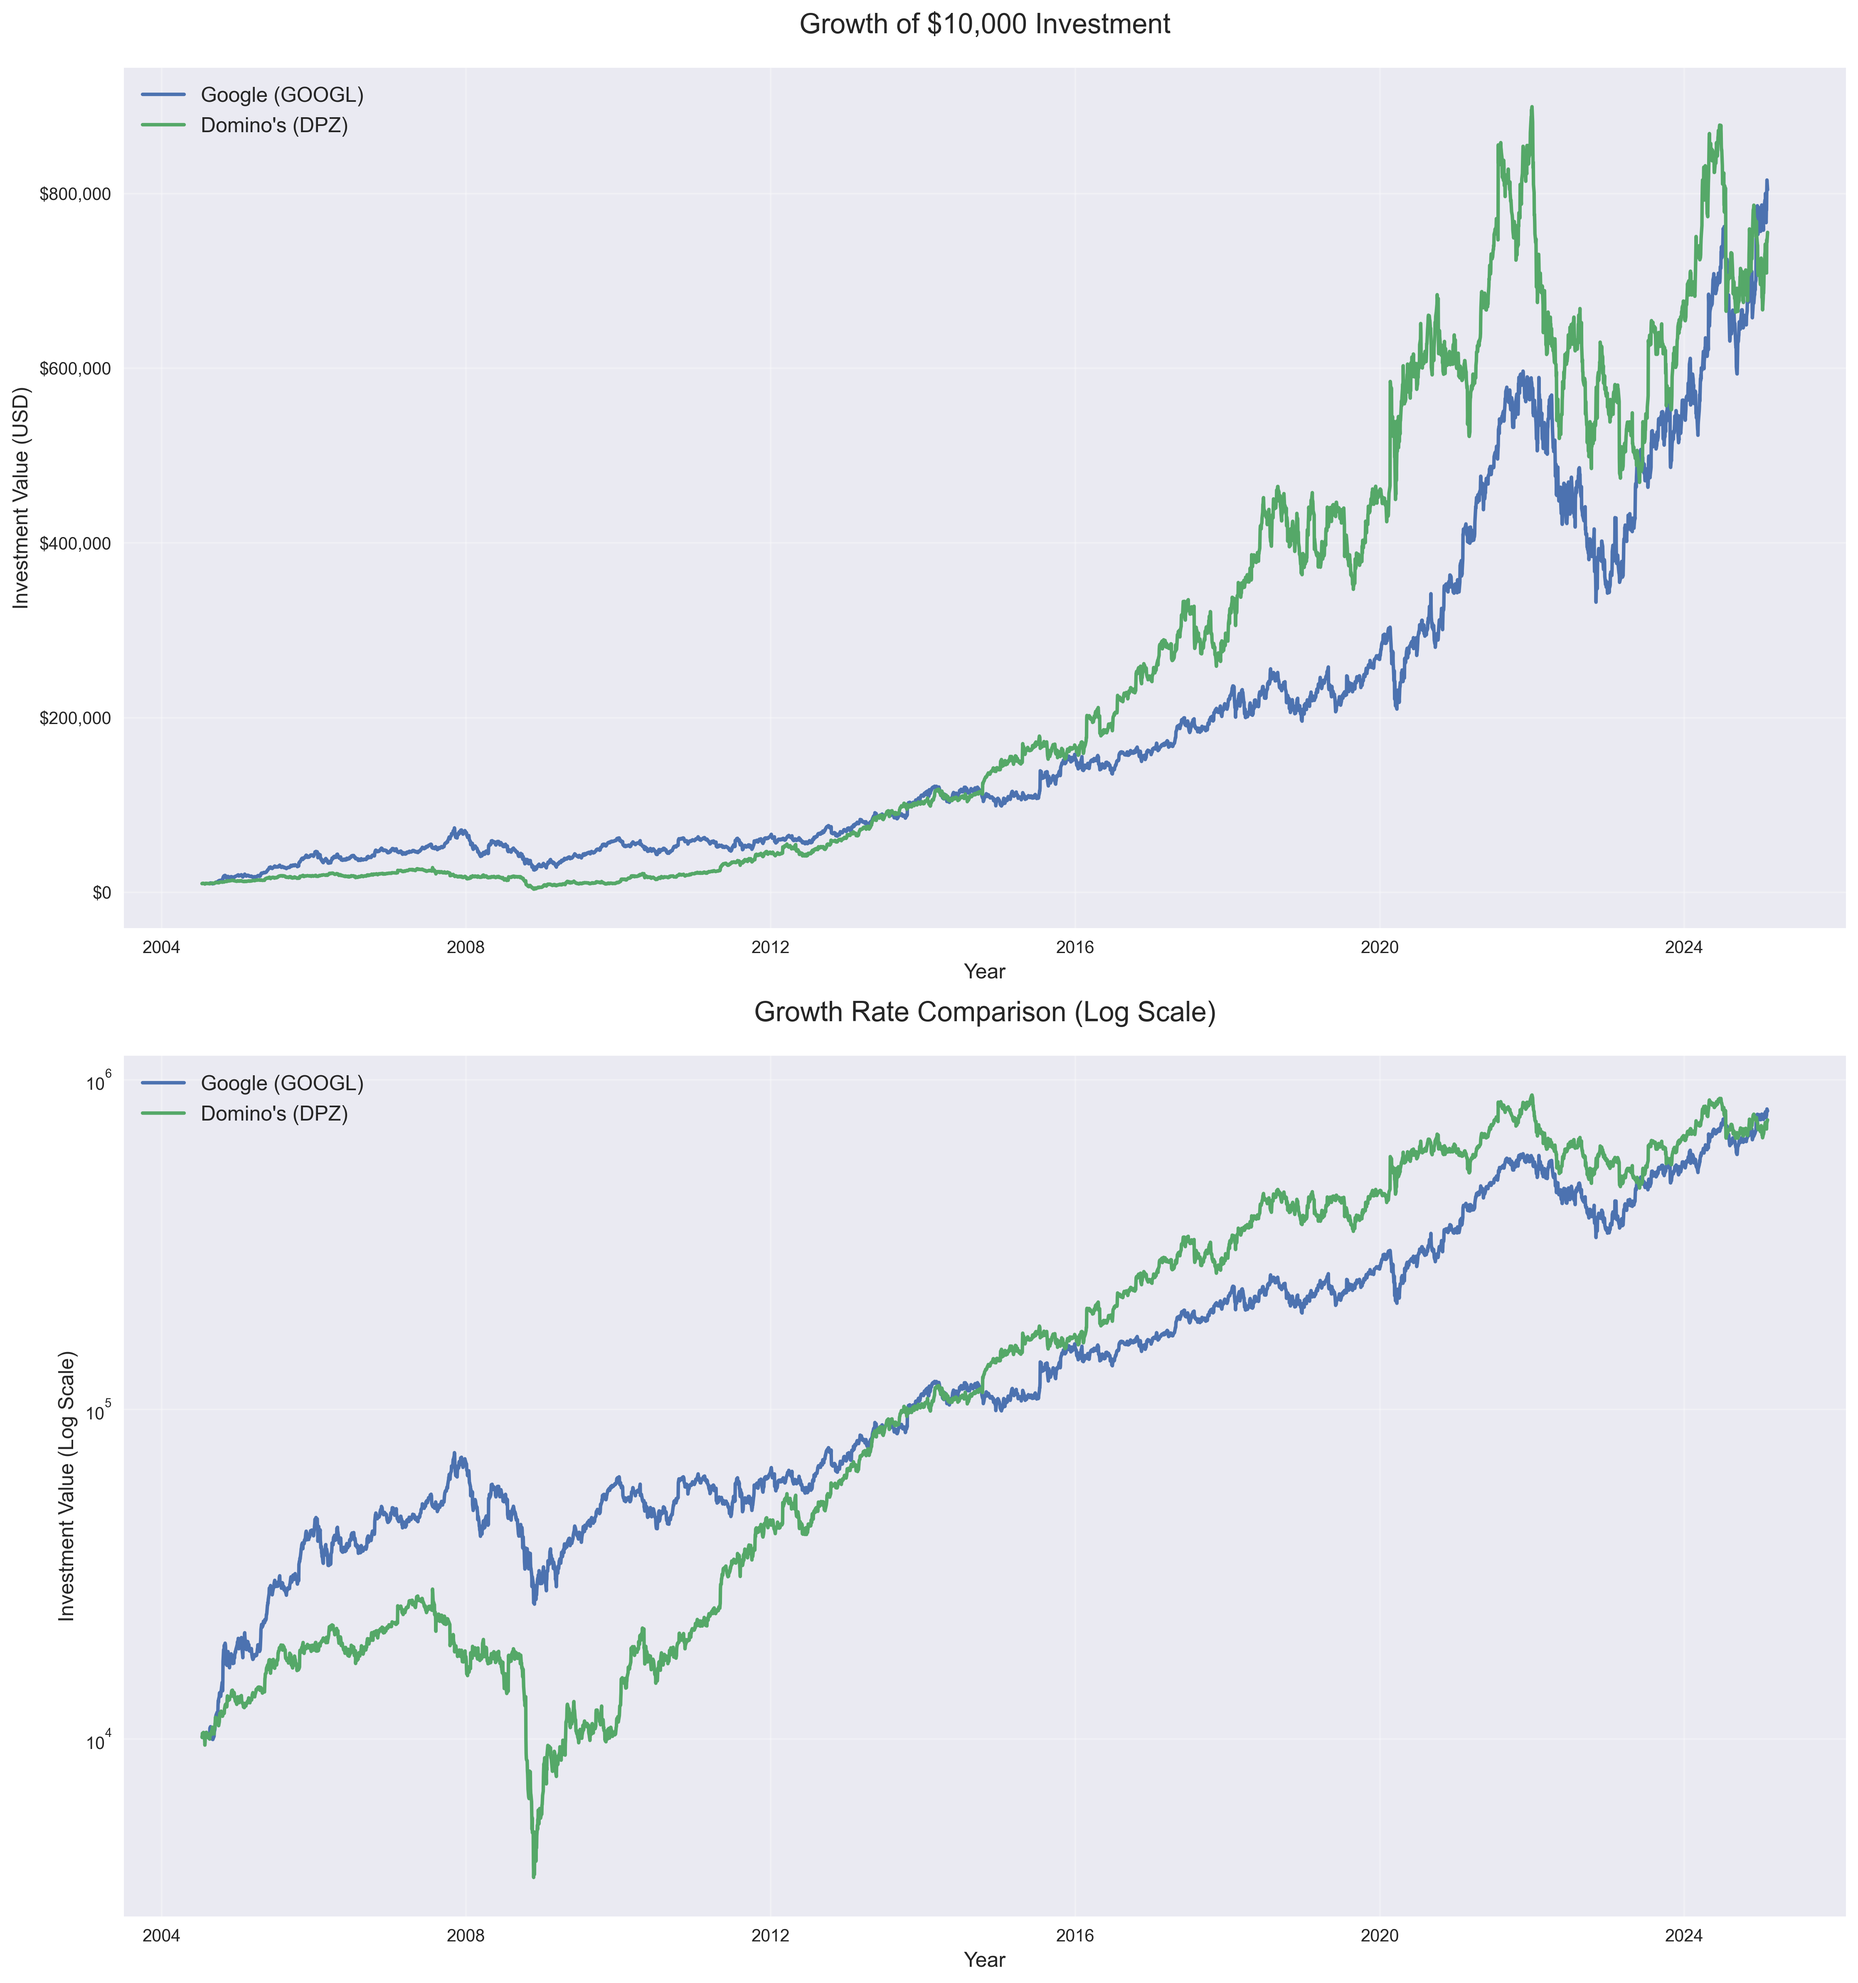
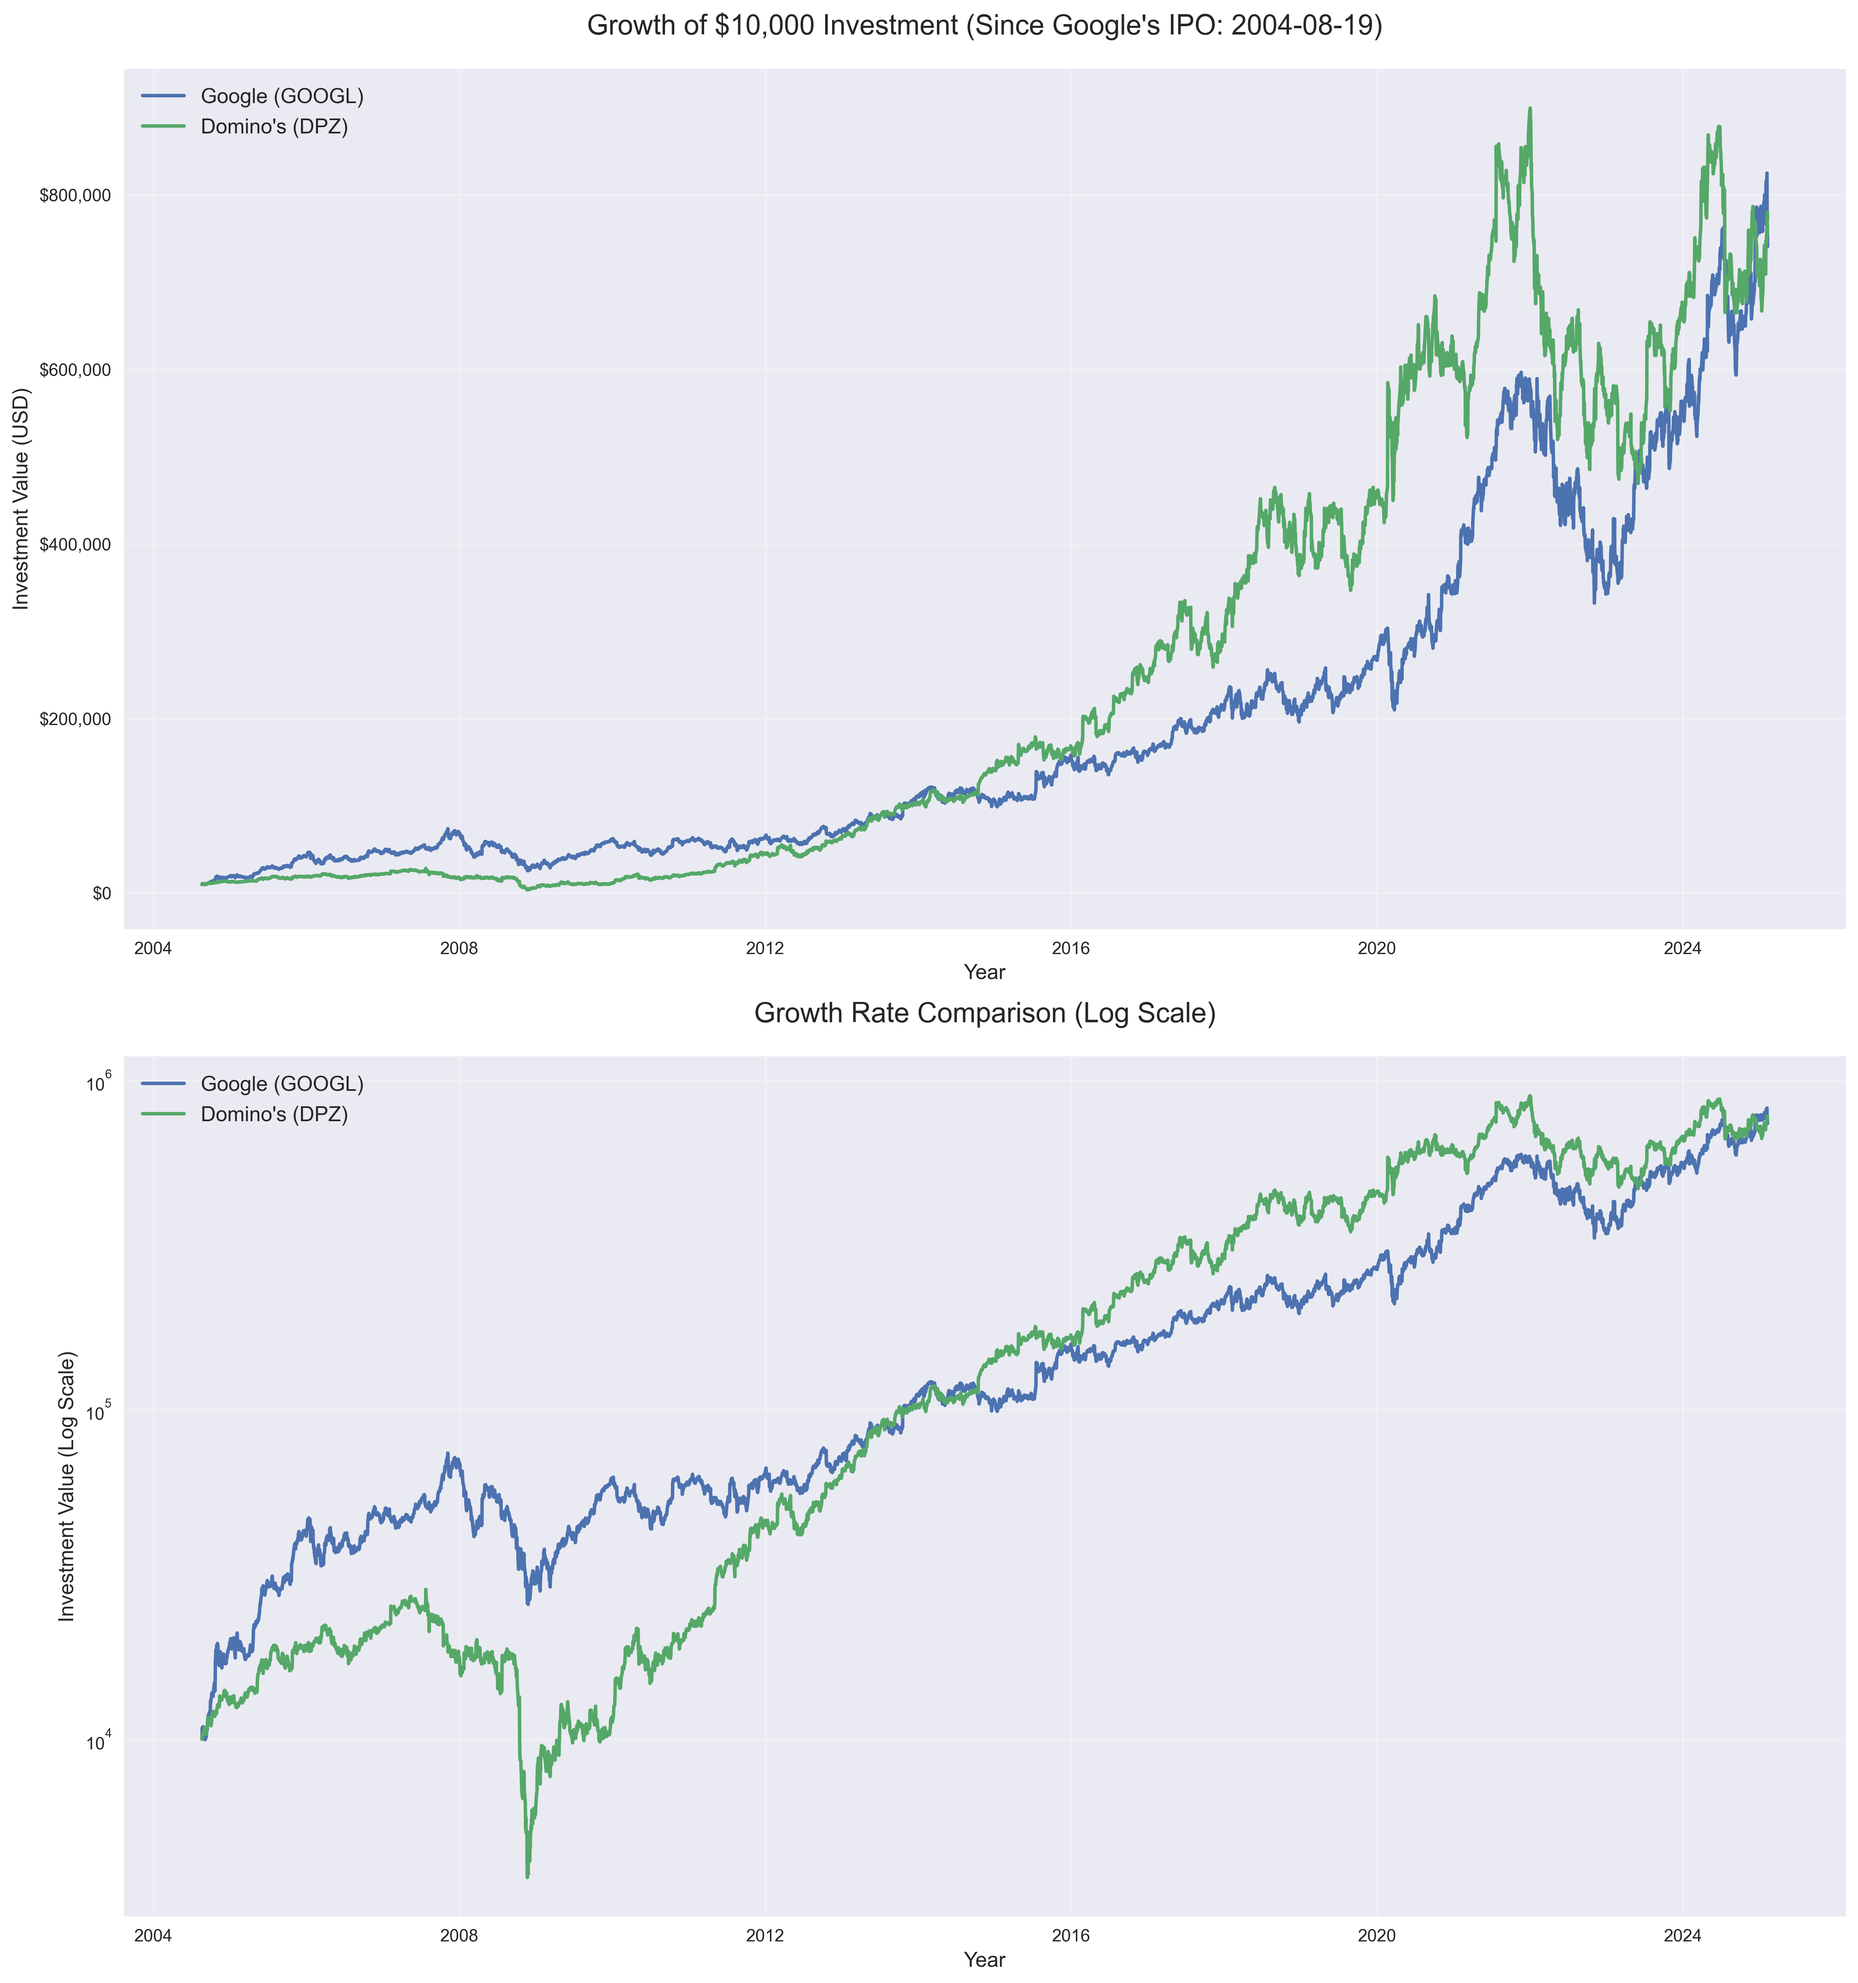
1st DeepSeek-R1 Update
Made a great visualization (3 charts) of Google vs. Domino's Stock (and which was the better investment)

diff --git a/stock_comparison.py b/stock_comparison.py
@@ -1,70 +1,120 @@
 import yfinance as yf
 import pandas as pd
 import matplotlib.pyplot as plt
-import seaborn as sns
-from datetime import datetime, timedelta
+import numpy as np
+from datetime import datetime
 
-# Set the style for better visualization
-plt.style.use('seaborn-v0_8')
+# Constants
+start_date = '2004-08-19'  # Google's IPO
+initial_investment = 10000
+GOOGLE = 'Google'
+DOMINOS = "Domino's"
 
-# Calculate the date range (25 years ago until now)
-end_date = datetime.now()
-start_date = end_date - timedelta(days=25*365)
+# Get data and normalize it first
+googl = yf.download('GOOGL', start=start_date)['Close'].squeeze()
+dpz = yf.download('DPZ', start=start_date)['Close'].squeeze()
 
-# Download the stock data
-googl = yf.download('GOOGL', start=start_date, end=end_date)
-dpz = yf.download('DPZ', start=start_date, end=end_date)
+# Align the data
+googl, dpz = googl.align(dpz)
 
-# Find the later IPO date between Google and Domino's
-start_date_comparison = max(googl.index[0], dpz.index[0])
+# Calculate normalized values first, then convert to numpy
+googl_norm = googl / googl.iloc[0]
+dpz_norm = dpz / dpz.iloc[0]
 
-# Calculate investment returns
-initial_investment = 10000  # $10,000 investment
+# Convert to numpy arrays and multiply by initial investment
+dates = googl.index
+googl_values = initial_investment * googl_norm.values
+dpz_values = initial_investment * dpz_norm.values
 
-# Create two subplots
-fig, (ax1, ax2) = plt.subplots(2, 1, figsize=(15, 16))
+# Print shapes to verify
+print("Dates shape:", dates.shape)
+print("Google values shape:", googl_values.shape)
+print("Domino's values shape:", dpz_values.shape)
+
+# Create three subplots
+fig, (ax1, ax2, ax3) = plt.subplots(3, 1, figsize=(15, 20))
 
 # Plot 1: Growth of $10,000 Investment
-googl_investment = (googl['Close'] / googl.loc[start_date_comparison, 'Close']) * initial_investment
-dpz_investment = (dpz['Close'] / dpz.loc[start_date_comparison, 'Close']) * initial_investment
+ax1.plot(dates, googl_values, label='Google (GOOGL)', linewidth=2, color='blue')
+ax1.plot(dates, dpz_values, label="Domino's (DPZ)", linewidth=2, color='green')
 
-ax1.plot(googl_investment.index, googl_investment, label='Google (GOOGL)', linewidth=2)
-ax1.plot(dpz_investment.index, dpz_investment, label="Domino's (DPZ)", linewidth=2)
+# Shade the areas
+ax1.fill_between(dates, googl_values, dpz_values, 
+                 where=googl_values >= dpz_values, 
+                 color='blue', alpha=0.1,
+                 label='Google Ahead')
+ax1.fill_between(dates, googl_values, dpz_values,
+                 where=googl_values <= dpz_values, 
+                 color='green', alpha=0.1,
+                 label="Domino's Ahead")
 
-ax1.set_title("Growth of $10,000 Investment", fontsize=16, pad=20)
+ax1.set_title(f"Growth of $10,000 Investment (Since Google's IPO: {start_date})", fontsize=16, pad=20)
 ax1.set_xlabel('Year', fontsize=12)
 ax1.set_ylabel('Investment Value (USD)', fontsize=12)
 ax1.legend(fontsize=12)
 ax1.grid(True, alpha=0.3)
 ax1.yaxis.set_major_formatter(plt.FuncFormatter(lambda x, p: f'${x:,.0f}'))
 
-# Plot 2: Log Scale Comparison
-ax2.semilogy(googl_investment.index, googl_investment, label='Google (GOOGL)', linewidth=2)
-ax2.semilogy(dpz_investment.index, dpz_investment, label="Domino's (DPZ)", linewidth=2)
+# Plot 2: Relative Performance
+relative_perf = ((googl_values - dpz_values) / dpz_values) * 100
 
-ax2.set_title("Growth Rate Comparison (Log Scale)", fontsize=16, pad=20)
+ax2.plot(dates, relative_perf, label='Google vs. Domino\'s', 
+         color='purple', linewidth=2)
+ax2.axhline(y=0, color='black', linestyle='--', alpha=0.3)
+ax2.fill_between(dates, relative_perf, 0, 
+                 where=relative_perf >= 0, 
+                 color='blue', alpha=0.1,
+                 label='Google Ahead')
+ax2.fill_between(dates, relative_perf, 0,
+                 where=relative_perf <= 0, 
+                 color='green', alpha=0.1,
+                 label="Domino's Ahead")
+
+ax2.set_title("Who's Winning? (Google's Performance vs. Domino's)", fontsize=16, pad=20)
 ax2.set_xlabel('Year', fontsize=12)
-ax2.set_ylabel('Investment Value (Log Scale)', fontsize=12)
+ax2.set_ylabel('Google\'s Relative Performance (%)', fontsize=12)
 ax2.legend(fontsize=12)
 ax2.grid(True, alpha=0.3)
 
+# Plot 3: Final Value Comparison
+final_values = pd.Series({
+    GOOGLE: googl_values[-1],
+    DOMINOS: dpz_values[-1]
+})
+
+colors = ['blue', 'green']
+ax3.bar(final_values.index, final_values.values, color=colors)
+ax3.set_title("Final Investment Values", fontsize=16, pad=20)
+ax3.set_ylabel('Final Value (USD)', fontsize=12)
+
+# Add value labels on bars
+for i, v in enumerate(final_values):
+    ax3.text(i, v, f'${v:,.0f}', ha='center', va='bottom')
+    
+# Add percentage difference annotation
+pct_diff = ((final_values[GOOGLE] - final_values[DOMINOS]) / final_values[DOMINOS]) * 100
+ax3.text(0.5, max(final_values) * 1.1, 
+         f'Difference: ${abs(final_values[GOOGLE] - final_values[DOMINOS]):,.0f}\n({pct_diff:.1f}% {"more" if pct_diff > 0 else "less"})',
+         ha='center', va='bottom', fontsize=12)
+
 # Print analysis
-print("\nInvestment Growth Analysis ($10,000 initial investment)")
-print(f"Start date: {start_date_comparison.strftime('%Y-%m-%d')}")
+print(f"\nInvestment Growth Analysis (${initial_investment:,} initial investment)")
+print(f"Start date: {start_date} (Google's IPO)")
 
 for name, final_value in [
-    ("Google", float(googl_investment.iloc[-1])),
-    ("Domino's", float(dpz_investment.iloc[-1]))
+    (GOOGLE, googl_values[-1]),
+    (DOMINOS, dpz_values[-1])
 ]:
     total_return = ((final_value/initial_investment) - 1) * 100
-    years_held = (end_date - start_date_comparison).days / 365.25
+    years_held = (datetime.now() - datetime.strptime(start_date, '%Y-%m-%d')).days / 365.25
     annualized = (((final_value/initial_investment) ** (1/years_held)) - 1) * 100
     
     print(f"\n{name}:")
+    print(f"Initial investment: ${initial_investment:,.2f}")
     print(f"Final value: ${final_value:,.2f}")
     print(f"Total return: {total_return:.1f}%")
     print(f"Annualized return: {annualized:.1f}% per year")
 
 plt.tight_layout()
-plt.savefig('investment_comparison.png', dpi=300, bbox_inches='tight')
+plt.savefig('investment_comparison_enhanced.png', dpi=300, bbox_inches='tight')
 plt.show() 
